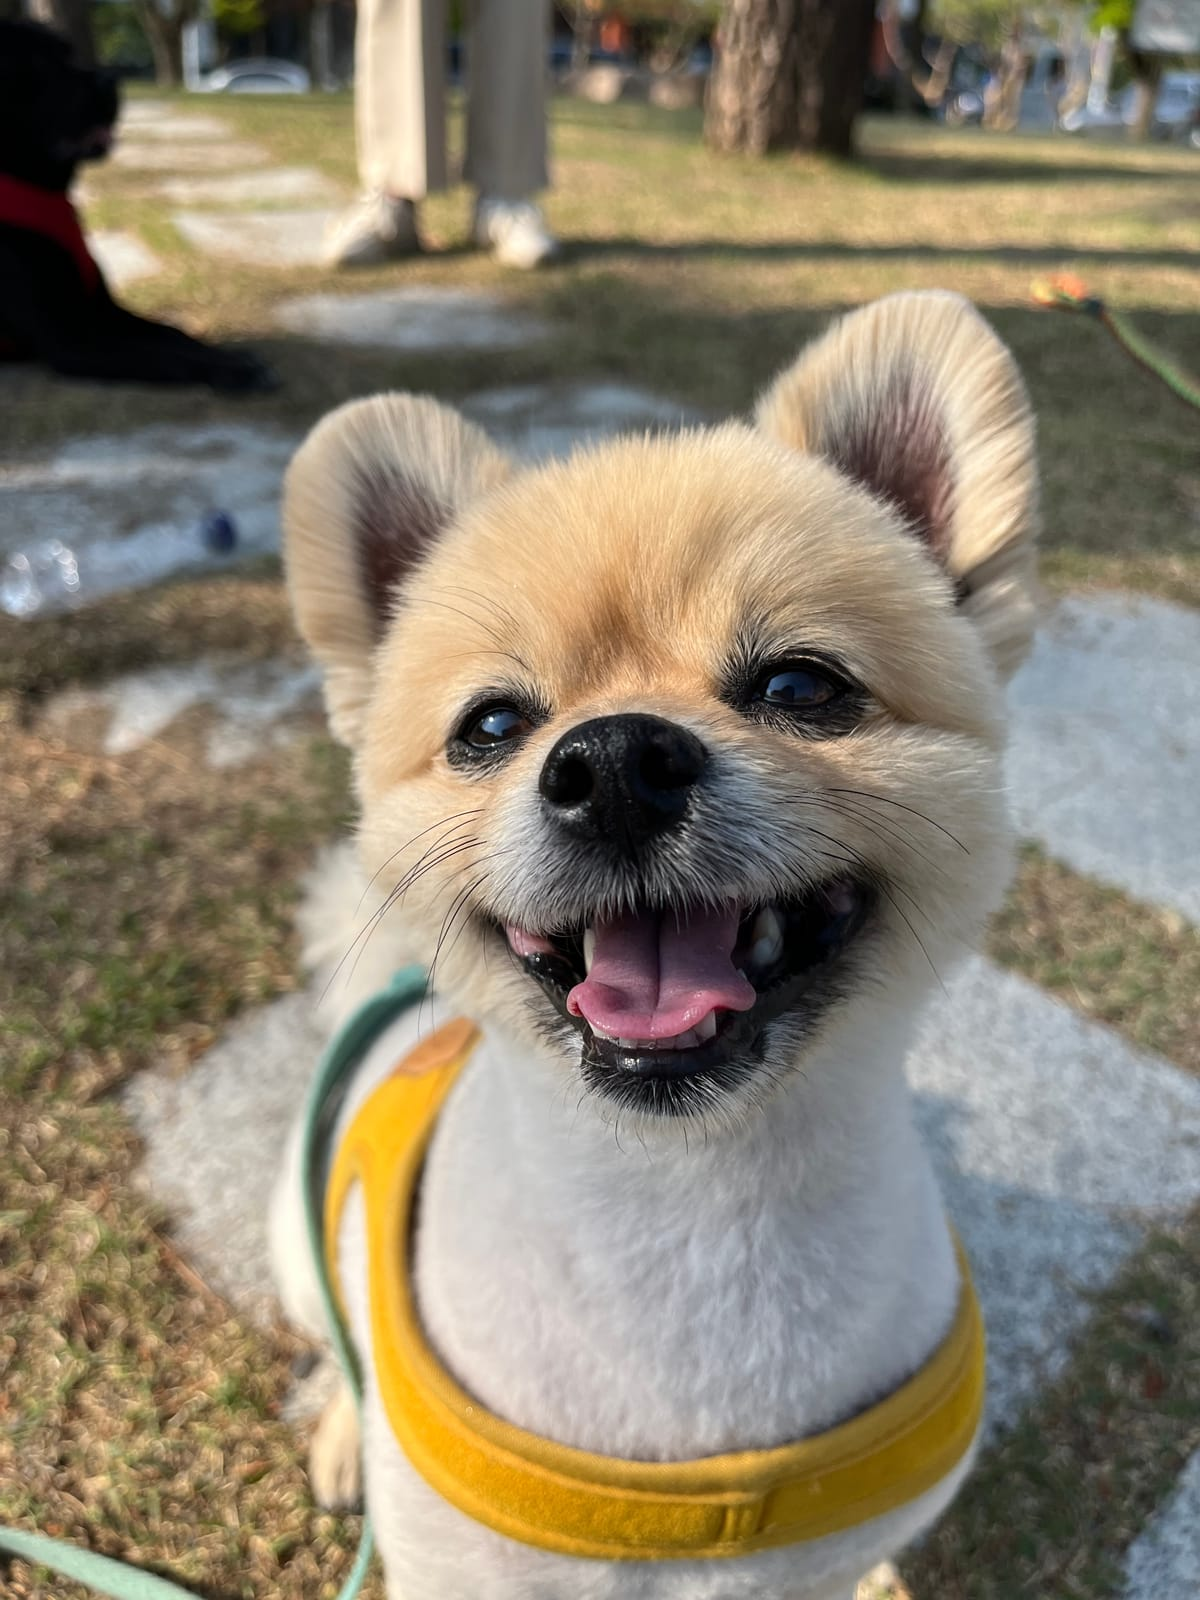
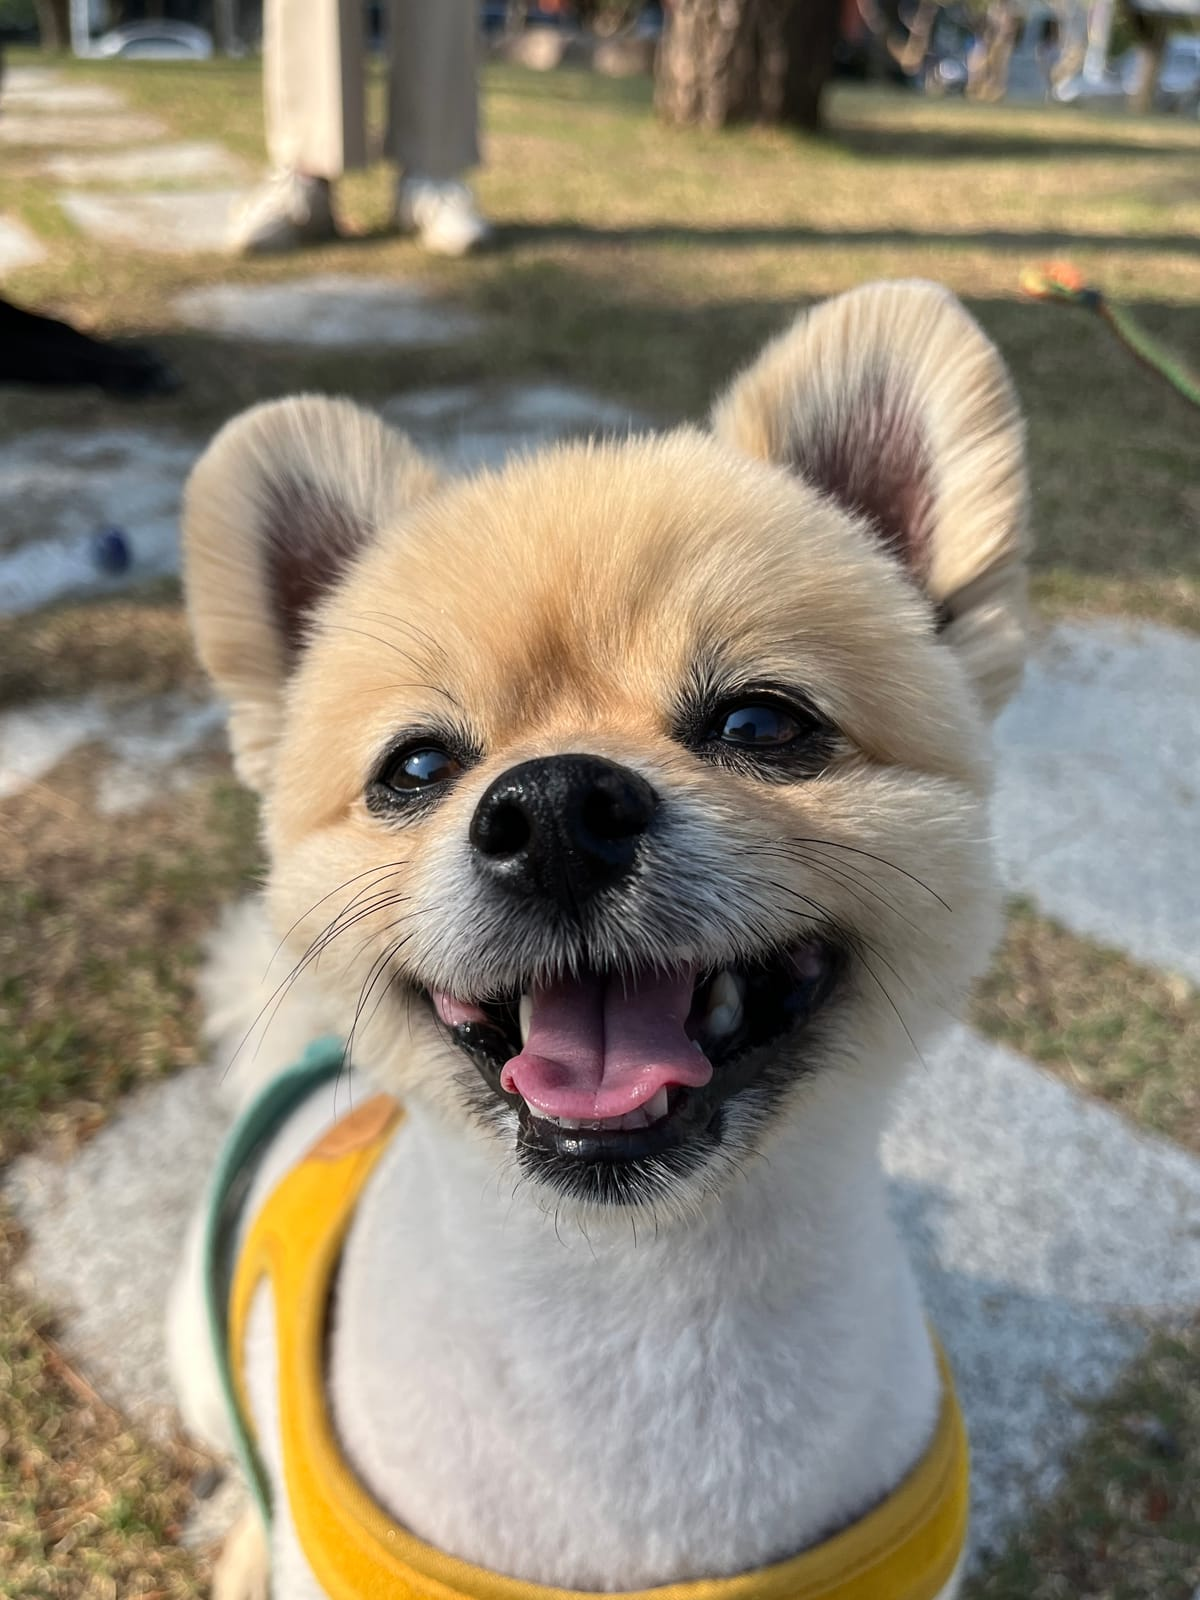
content: 첫 화면 소개 사진을 봄 사진으로 바꾸기 (#18)
* content: 첫 화면 소개 사진 바꾸기

* content: 첫 화면 소개 사진을 봄 사진으로 바꾸기

* content: 첫 화면 소개 사진 얼굴을 가운데로 맞추기

---------

diff --git a/lib/gallery.ts b/lib/gallery.ts
@@ -66,7 +66,7 @@ export const heroPhoto: Photo = photo("main", "복슬복슬한 털을 뽐내며 
 export const profilePhoto: Photo = photo("gallery-50", "단풍 든 공원 잔디밭에서 정면을 보며 활짝 웃는 차돌이");
 
 /** 첫 화면 짧은 소개 옆 사진. 소개 페이지 첫머리(profilePhoto)와 겹치지 않게 다른 사진을 쓴다. */
-export const aboutPreviewPhoto: Photo = photo("gallery-120", "혀를 살짝 내밀고 활짝 웃는 차돌이 얼굴");
+export const aboutPreviewPhoto: Photo = photo("gallery-71", "혀를 내밀고 활짝 웃는 차돌이 얼굴");
 
 /** "차돌이는요" 소개 다섯 칸의 사진 */
 export const traitPhotos: Record<TraitId, Photo> = {
